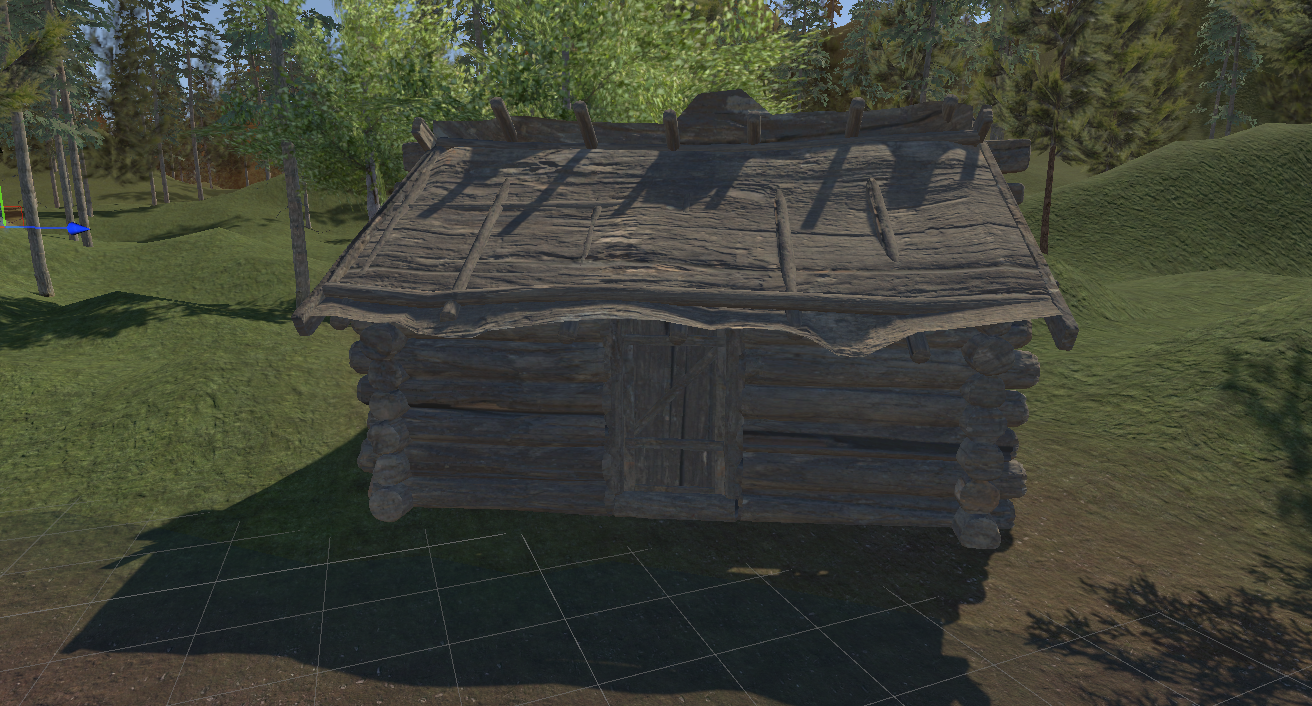
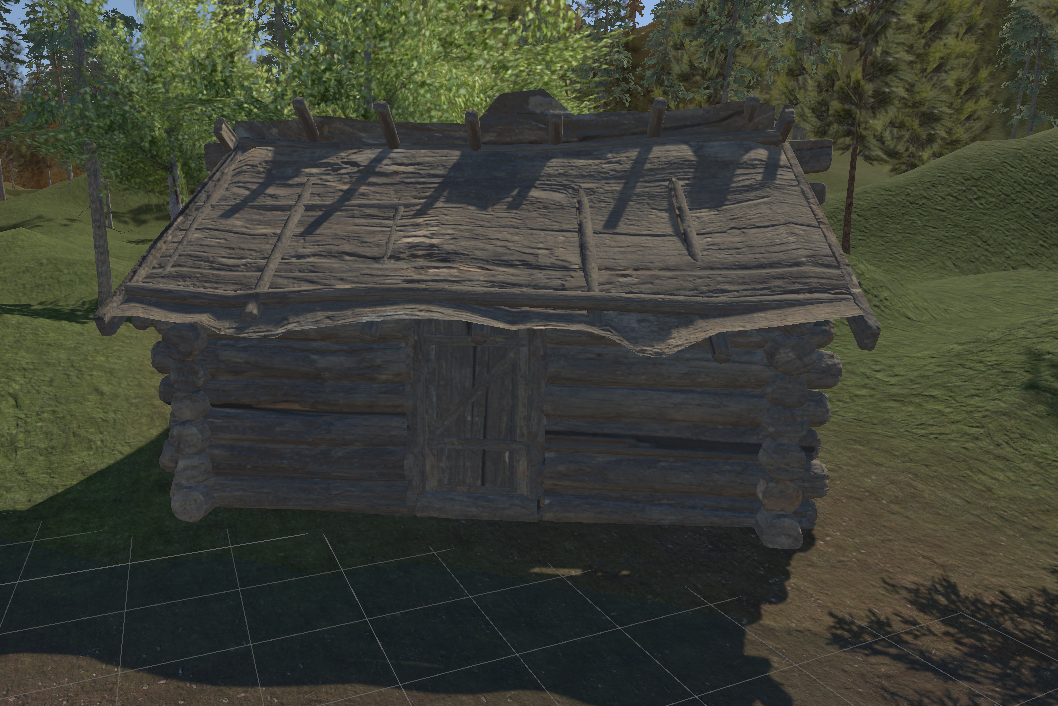
changed images size and format

diff --git a/README.md b/README.md
@@ -11,7 +11,7 @@ Some objects are present to manipulate and put in containers.
 [[All my VR Projects here]](https://github.com/igor-lirussi?tab=repositories&q=virtual-reality)
 
 ## Result
-<img src="./img/result.PNG" alt="fountain" style="width:700px;"/>
+<img src="./img/result.jpg" alt="fountain" style="width:700px;"/>
 
 ## Walkable path & Map
 <img src="./img/map_pretty.png" alt="fountain" style="width:500px;"/>
